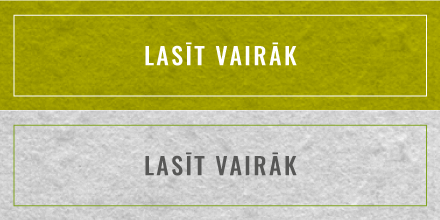
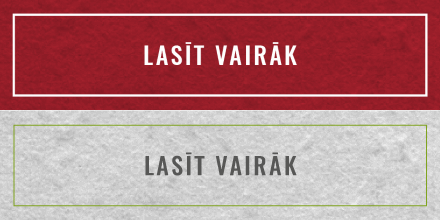
Pieķūnēta slaida animācija mobilajiem; Sarkanā poga.

diff --git a/wp-content/themes/the-box-child/mobile.css b/wp-content/themes/the-box-child/mobile.css
@@ -71,15 +71,12 @@ div.top_bar{
     width:100%;
     left:0 !important;
 }
-#bg1 {
-    background: url(images/mobile_intro_bg.jpg) no-repeat center center;
-    background-size: cover;
-    position: absolute;
-    width: 100%;
-    height: 100%;
-    left:0;
-    top:0;
+#background div{
+    top: 0;
+    left: 0;
+    background-size: auto 110vh;
 }
+
 #mid1 {
     background-image: url(images/ui/line_pattern.png);
     opacity: 0.9;
@@ -87,6 +84,7 @@ div.top_bar{
     margin:0;
     padding: 5%;
     font-family: pagella;
+    top: 5vh;
 }
 #fore1{
     font-size: 24pt;
@@ -121,12 +119,14 @@ div.top_bar{
     bottom: 5%;
 }
 #bigmore, #mcontinue {
+    position: relative;
     display: inline-block;    
     margin-top: 0;
     width: 176px;
     height: 44px; 
     background-size: 176px 88px;
     background-position: 0 0;
+    bottom: 0;
 }
 #bigmore{
     background-image: url(images/ui/mobile/readmore.png);

diff --git a/wp-content/plugins/dynamicContent/animations.css b/wp-content/plugins/dynamicContent/animations.css
@@ -553,12 +553,12 @@
 
 @keyframes clipCenterH {
     0% { visibility: visible; 
-    top: 45%;
+    top: 50%;
     height: 0%;
 }
     100% { visibility: visible; 
            top: -5%;
-           height: 100%;
+           height: 110%;
     }
 }
 

diff --git a/wp-content/themes/the-box-child/style.css b/wp-content/themes/the-box-child/style.css
@@ -1494,7 +1494,7 @@ a.archive, div.archive{
     background-size: cover;
     position: absolute;
     width: 110%;
-    height: 100%;
+    height: 110%;
     left: -5%;
     top: -5%; 
 }
